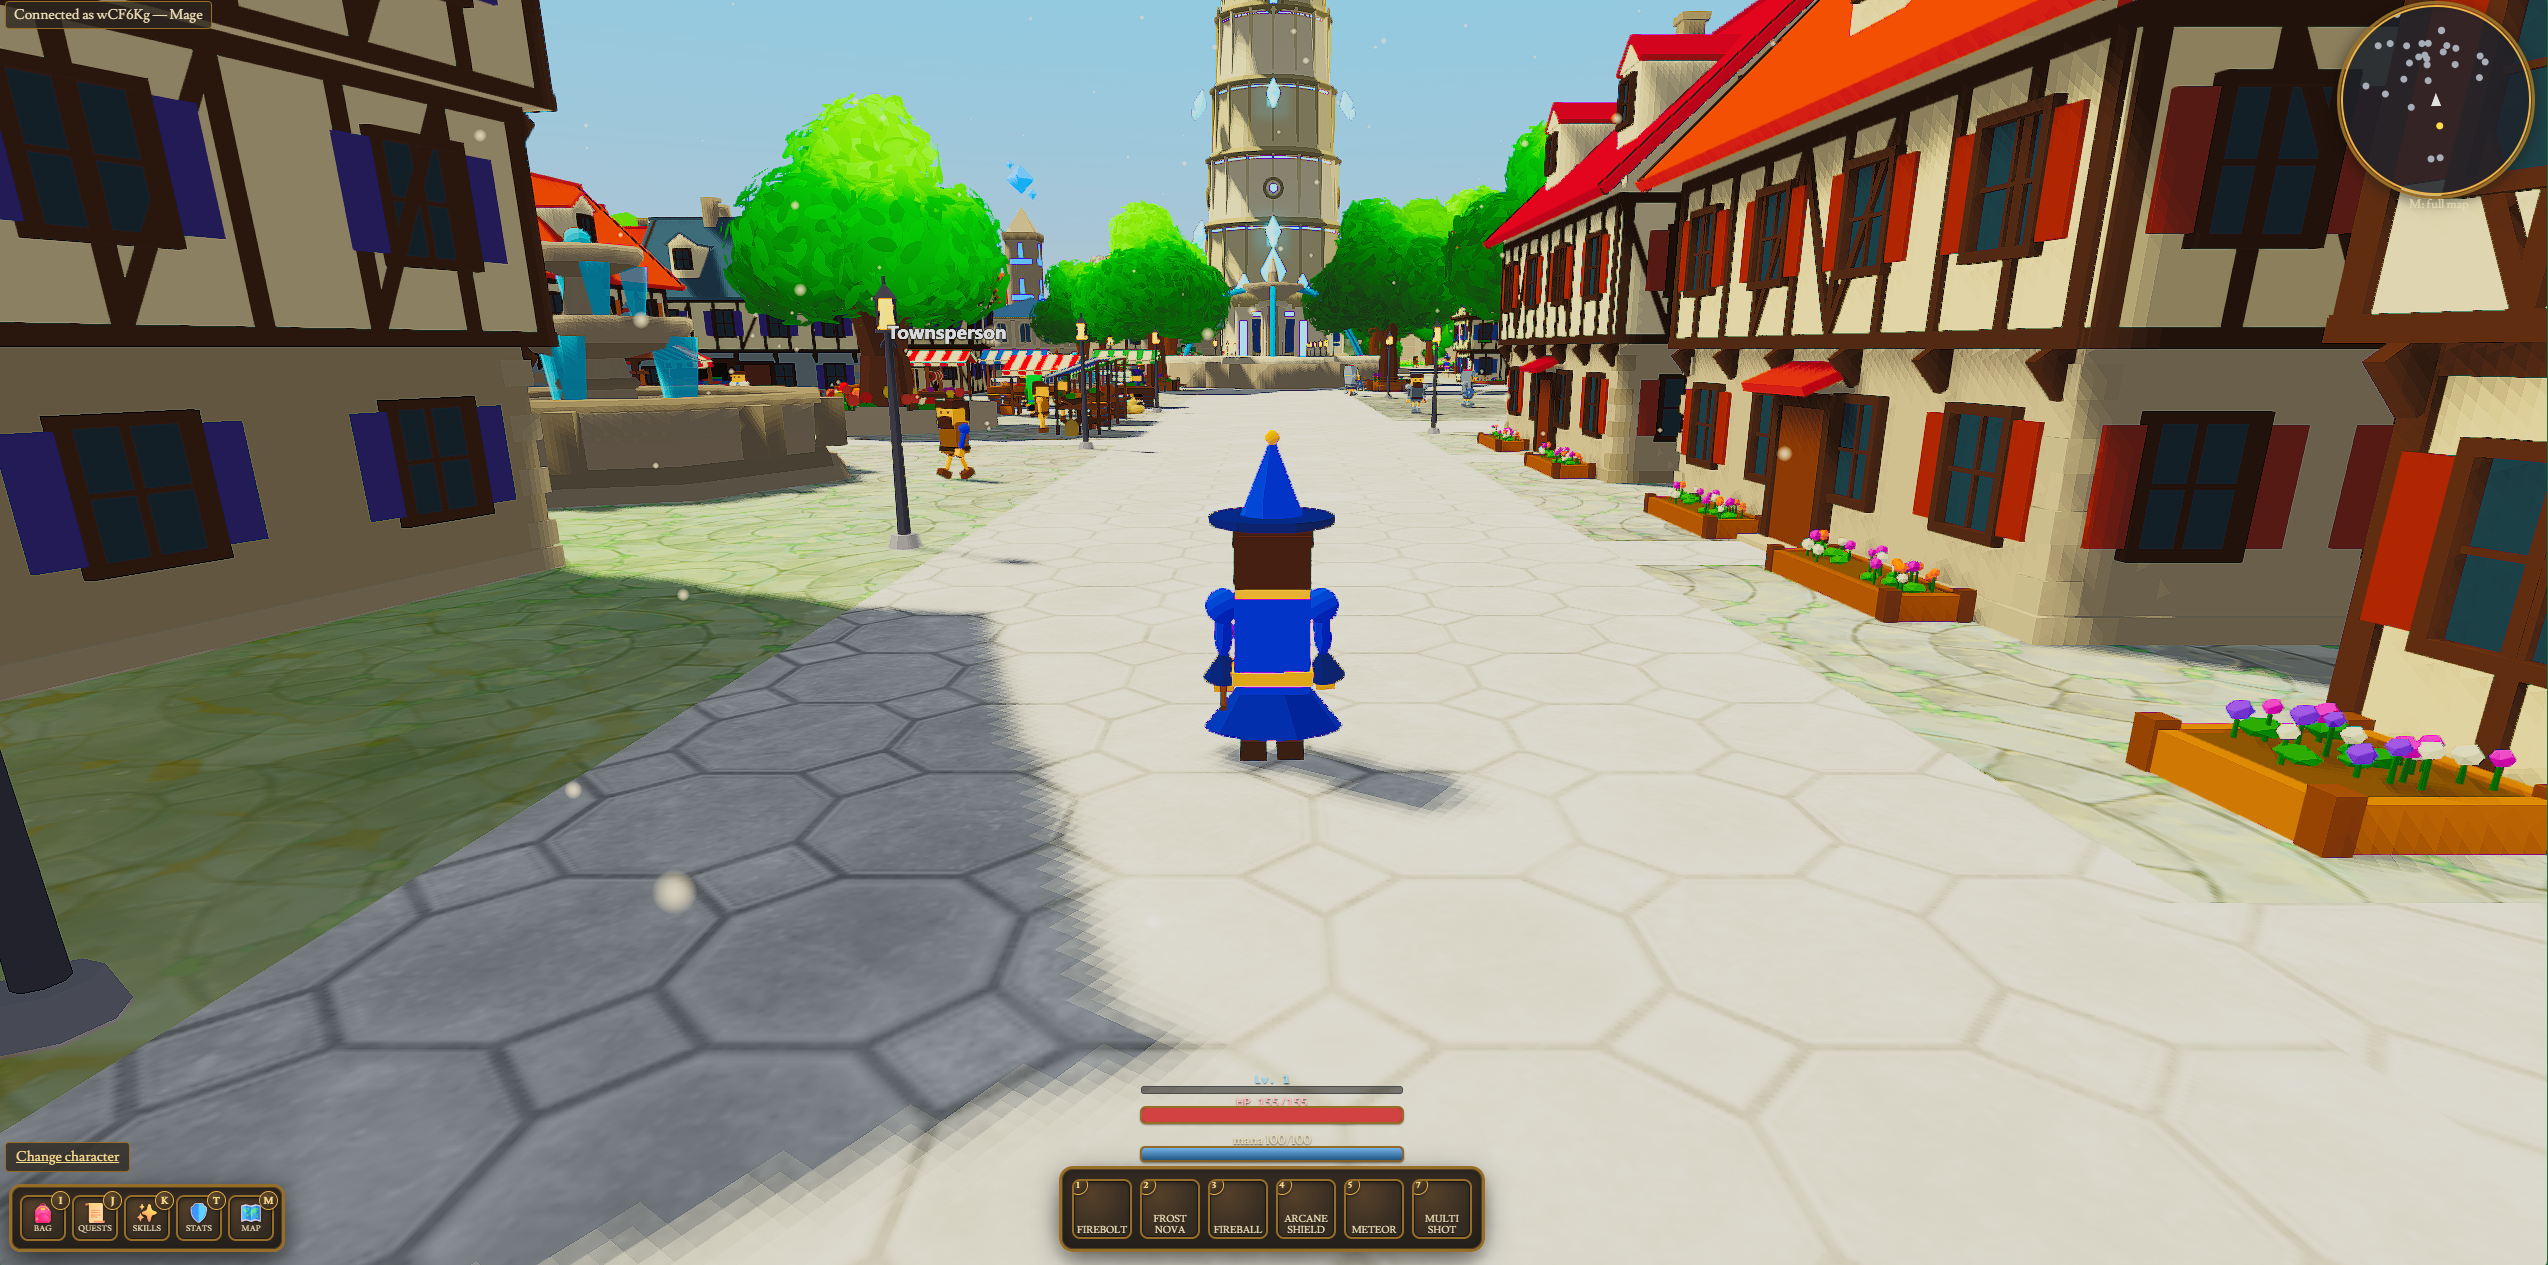
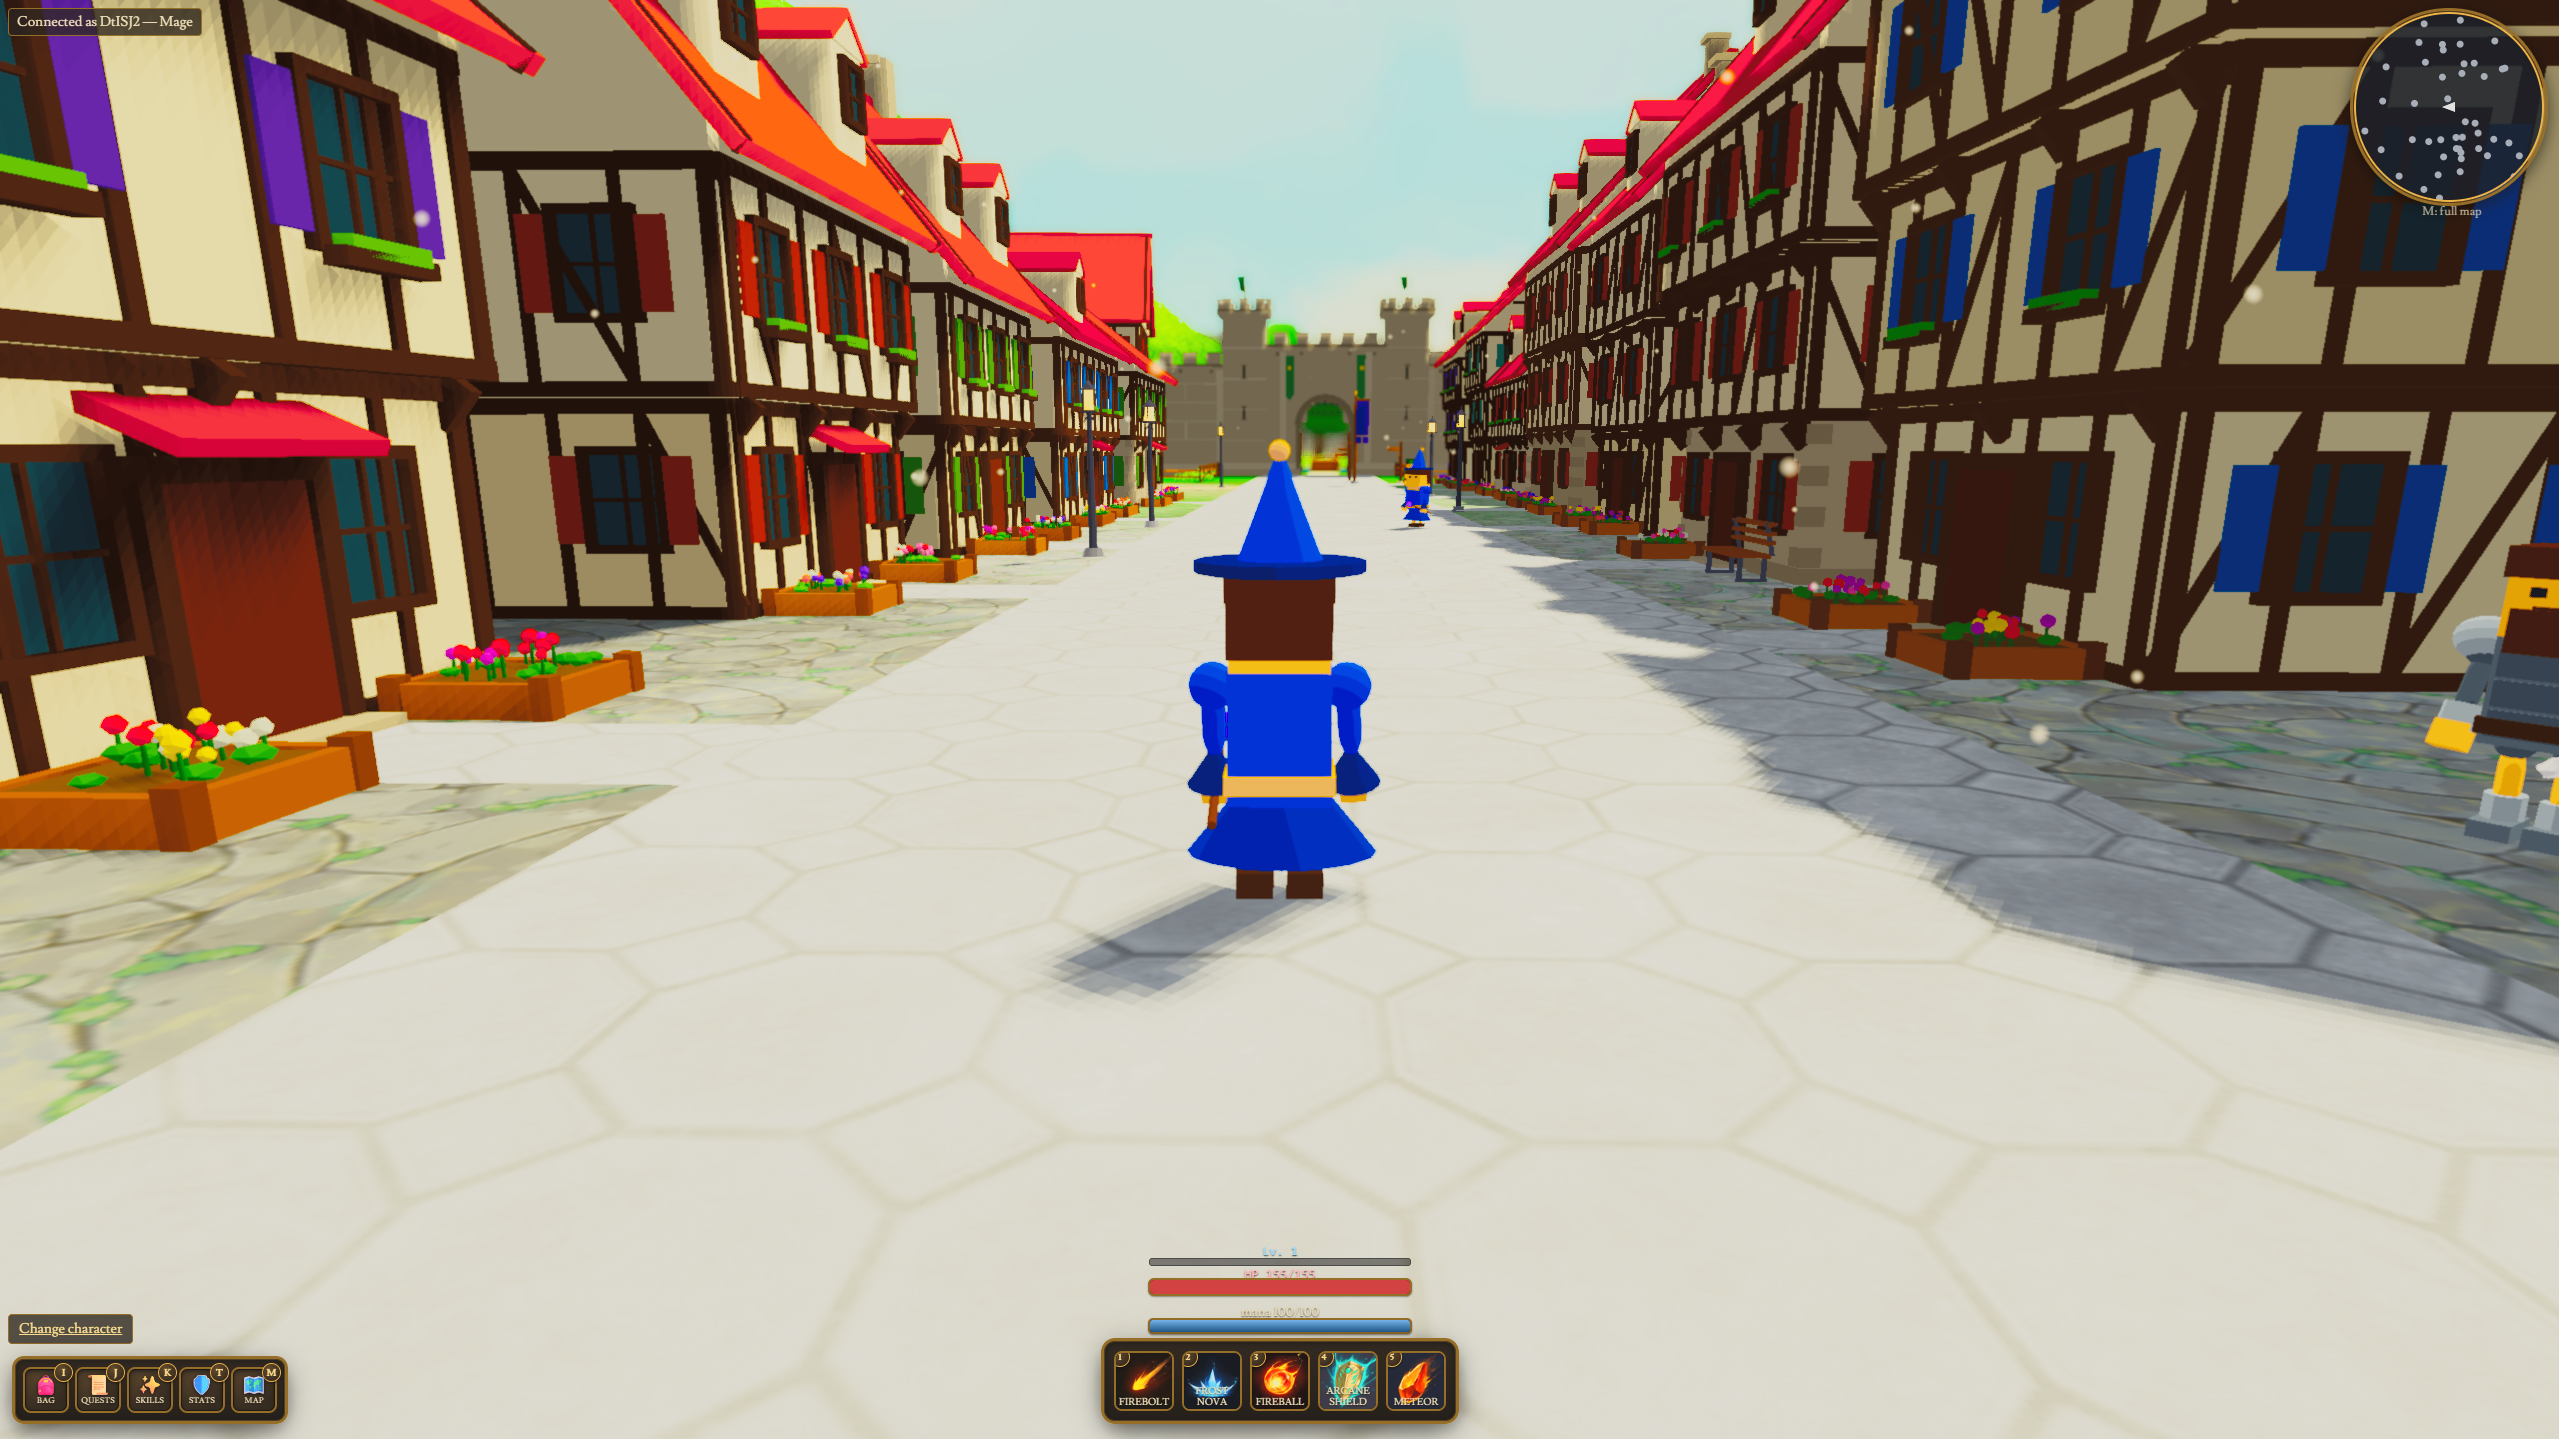
preview updates

diff --git a/README.md b/README.md
@@ -32,7 +32,7 @@ Design complete MMORPG worlds directly in your browser: maps, terrain, NPCs, mon
 
 | World Editor | Ingame |
 |---|---|
-| ![](assets/preview/editor.png) | ![](assets/preview/ingame.png) |
+| ![](assets/preview/editor.png) | ![](assets/preview/ingame.png) | ![](assets/preview/ingame2.png) | ![](assets/preview/monstereditor.png) | ![](assets/preview/charactereditor.png) | ![](assets/preview/buildingeditor.png) | ![](assets/preview/skilleditor.png) |
 
 ## 🚀 What is it?
 
